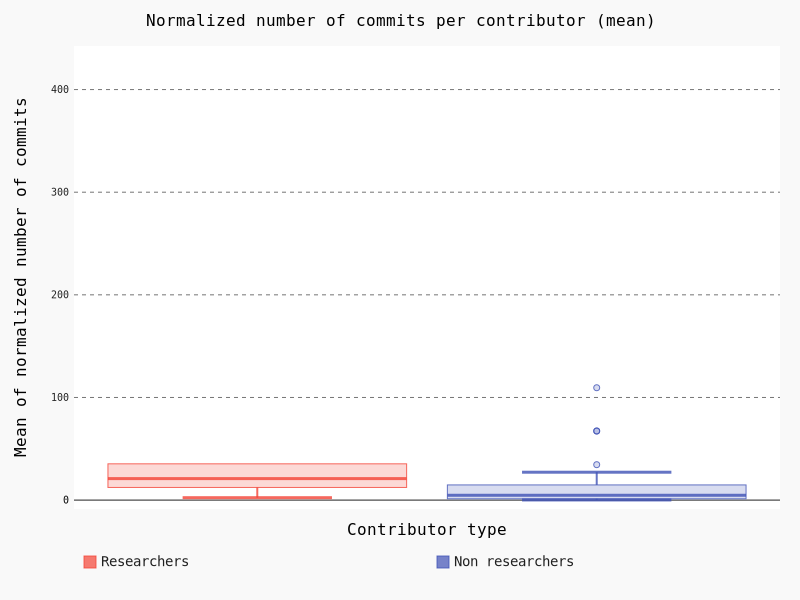
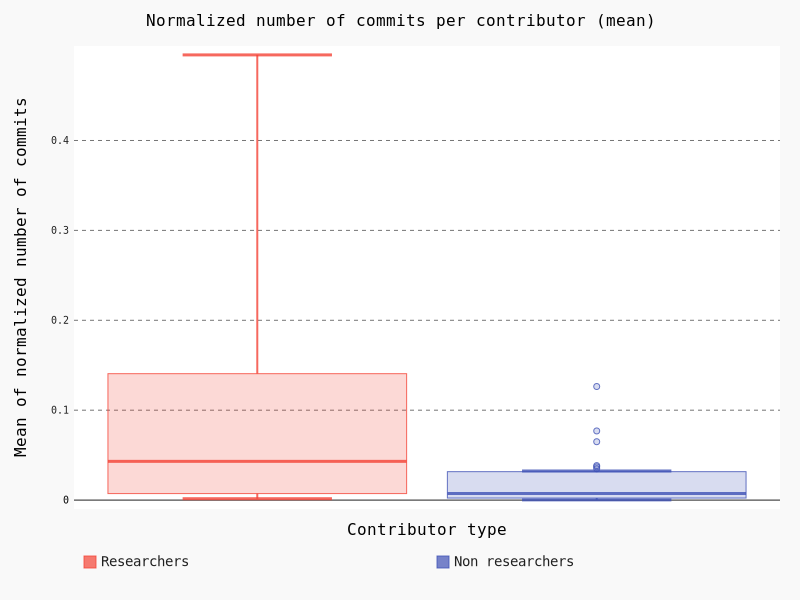
Updates comment-est-organise-le-developpement-dun-projet-open-source-de-machine-learning.md
Auto commit by GitBook Editor

diff --git a/comment-est-organise-le-developpement-dun-projet-open-source-de-machine-learning.md b/comment-est-organise-le-developpement-dun-projet-open-source-de-machine-learning.md
@@ -284,6 +284,26 @@ _Figure 7 - La majorité des contributeurs, aussi bien chercheurs que non-cherch
 
 La _Figure 7_ montre que la majorité des contributeurs, indépendamment de leur type, sont des contributeurs ponctuels \(un ou deux _commits_\). Le grand écart-type sur la boîte des chercheurs est dû aux petits projets qui comptent peu de contributeurs mais une grande proportion de chercheurs.
 
+![](/assets/organisation_project_os_ml/commits_third_quartile.png)
+
+_Figure 8 - Il y a proportionnellement moins de chercheurs ponctuels que de non-chercheur ponctuels_
+
+![](/assets/organisation_project_os_ml/commits_mean.png)
+
+_Figure 9 - En moyenne, les chercheurs fournissent beaucoup plus de _commits_ que les non-chercheurs_
+
+La _Figure 8_ montre qu'en proportion il y a moins de chercheurs ponctuels \(dans le sens "qui ne contribuent qu'une fois"\) que de non-chercheurs ponctuels. La _Figure 9_ montre très clairement que, en moyenne, les chercheurs fournissent plus de commits que les non-chercheurs ce qui, d'après notre hypothèse sur la répartition des commits dans le temps, indique que **les chercheurs sont des contributeurs qui s'investissent sur un plus long terme que les autres contributeurs**.
+
+##### Nombre de lignes modifiées : appropriation du projet
+
+Notre hypothèse de travail est qu'un contributeur qui a modifié de nombreuses lignes \(ajout, retrait\) dans le code du projet est un contributeur qui a une bonne maîtrise du projet et qui se l'est approprié.
+
+![](/assets/organisation_project_os_ml/modified_lines_third_quartile.png)
+
+Figure 10 - 
+
+Si la médiane des nombres de lignes modifiées par contributeur est proche de zéro avec un faible écart-type pour les deux classes de contributeurs, la Figure 10 montre que cet écart-type augmente au troisième quartile, ce qui signifie qu'à proportion égale les chercheurs s'approprient plus le projet que les non-chercheurs, de par une plus grande contribution en lignes de code.
+
 #### Conclusion partielle
 
 ### V.2. **Qui écrit les algorithmes d'apprentissage automatique dans ces projets ?**
